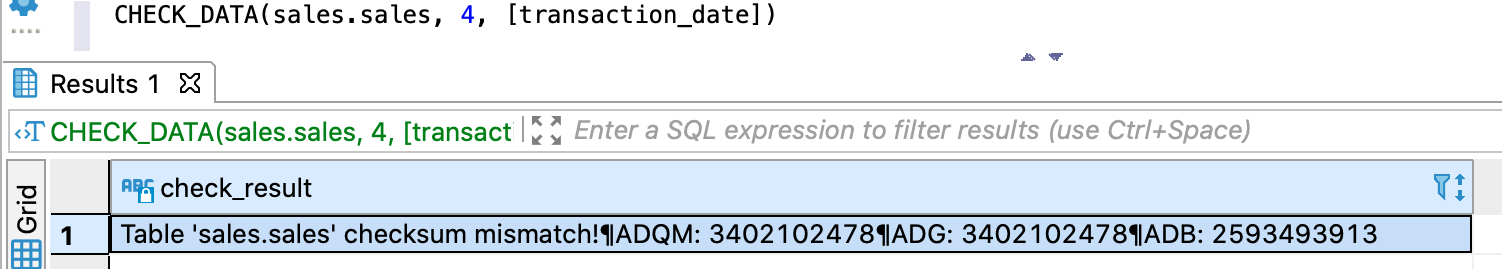
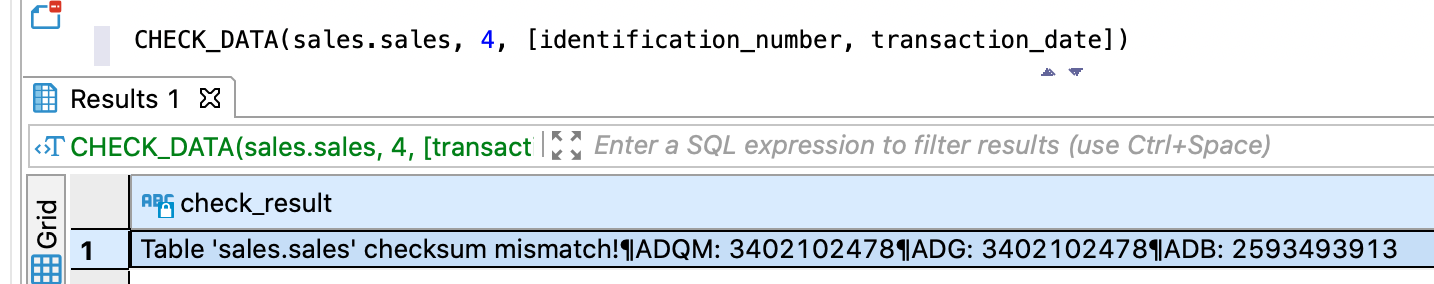
Check* requests: implement vtikhonova feedback and fix some typos

Changed region(s): [[0.0, 0.0, 1.0, 1.0], [0.7057, 0.2379, 0.7671, 0.2677]]

diff --git a/Справочная_информация/Запросы_SQLplus/CHECK_SUM/CHECK_SUM.md b/Справочная_информация/Запросы_SQLplus/CHECK_SUM/CHECK_SUM.md
@@ -18,9 +18,9 @@ has_toc: false
 *   всем столбцам логической таблицы,
 *   всем логическим таблицам [логической базы данных](../../../Обзор_понятий_компонентов_и_связей/Основные_понятия/Логическая_база_данных/Логическая_база_данных.md).
 
-Контрольная сумма расчитывается для каждой целевой СУБД [хранилища](../../../Обзор_понятий_компонентов_и_связей/Основные_понятия/Хранилище_данных/Хранилище_данных.md). 
-Под целевыми СУБД позразумеваются СУБД, в которых размещены данные проверяемой логической таблицы 
-или логической базы данных.  
+Контрольная сумма рассчитывается для каждой целевой СУБД [хранилища](../../../Обзор_понятий_компонентов_и_связей/Основные_понятия/Хранилище_данных/Хранилище_данных.md). 
+Под целевыми СУБД подразумеваются СУБД, в которых размещены данные проверяемой логической таблицы 
+или логической базы данных.
 
 Контрольная сумма рассчитывается пошагово: по логической таблице и затем, если требуется,
 по всей логической базе данных. Полученные значения сравниваются между целевыми СУБД. Если 
@@ -33,31 +33,7 @@ has_toc: false
     и отсутствии расхождений между СУБД хранилища;
 *   исключение при наличии расхождений или неуспешном выполнении запроса.
 
-На рисунках ниже показаны примеры ответов с контрольной суммой по разным срезам данных: 
-по перечисленным столбцам таблицы, всем столбцам таблицы и всей логической базе данных.
-Расхождений в данных между СУБД хранилища нет.
-
-![](check_sum_по_столбцам_таблицы.png)
-{: .figure-center}
-*Ответ CHECK_SUM по указанным столбцам таблицы*
-{: .figure-caption-center}
-
-![](check_sum_по_таблице_целиком.png){:height="40%" width="50%"}
-{: .figure-center}
-*Ответ CHECK_SUM по логической таблице*
-{: .figure-caption-center}
-
-![](check_sum_по_логической_бд.png){:height="40%" width="50%"}
-{: .figure-center}
-*Ответ CHECK_SUM по логической базе данных*
-{: .figure-caption-center}
-
-На рисунке ниже показан примера ответа при наличии расхождений в данных между СУБД хранилища.
-
-![](check_sum_с_расхождениями.png)
-{: .figure-center}
-*Ответ CHECK_SUM при наличии расхождений*
-{: .figure-caption-center}
+Примеры запросов и ответов см. в секции [Примеры](#примеры).
 
 ## Синтаксис
 
@@ -80,21 +56,54 @@ CHECK_SUM(delta_num[, [db_name.]table_name[, square-bracketed_column_list]])
 ## Ограничения
 
 *   Разные наборы данных могут иметь одинаковую контрольную сумму.
-*   Количество записей в операциях записи не должно превышать `4'294'967'298`, иначе  корректность проверки 
-    не гарантируется.
+*   Количество записей в проверяемых операциях записи не должно превышать `4'294'967'298`, иначе 
+    выдается исключение.
 
 ## Примеры
 
-Расчет контрольной суммы по логической базе данных `sales` в нулевой дельте:
+Расчет контрольной суммы по трем столбцам таблицы `sales` в десятой дельте:
 ```sql
-USE sales
-CHECK_SUM(0)
+CHECK_SUM(10,sales.sales,[identification_number, transaction_date, product_code])
 ```
 
-Расчет контрольной суммы по столбцам `region` и `region` таблицы `stores` в нулевой дельте:
+На рисунках ниже показаны примеры ответов на запрос `CHECK_SUM` с перечислением столбцов: 
+на первом — ответ при отсутствии расхождений в данных между СУБД хранилища, на втором — ответ при 
+наличии расхождений.
+
+![](check_sum_по_столбцам_таблицы.png)
+{: .figure-center}
+*Ответ CHECK_SUM по указанным столбцам таблицы при отсутствии расхождений*
+{: .figure-caption-center}
+
+![](check_sum_с_расхождениями.png)
+{: .figure-center}
+*Ответ CHECK_SUM при наличии расхождений*
+{: .figure-caption-center}
+
+Расчет контрольной суммы по всей таблице `sales` в десятой дельте:
 ```sql
-CHECK_SUM(0,sales.stores,[region, region])
+CHECK_SUM(10,sales.sales)
 ```
+
+На рисунке ниже показан пример ответа на запрос `CHECK_SUM` по логической таблице.
+
+![](check_sum_по_таблице_целиком.png){:height="40%" width="40%"}
+{: .figure-center}
+*Ответ CHECK_SUM по логической таблице*
+{: .figure-caption-center}
+
+Расчет контрольной суммы по всей логической базе данных `sales` в десятой дельте:
+```sql
+USE sales
+CHECK_SUM(10)
+```
+
+На рисунке ниже показан пример ответа на запрос `CHECK_SUM` по логической базе данных.
+
+![](check_sum_по_логической_бд.png){:height="40%" width="40%"}
+{: .figure-center}
+*Ответ CHECK_SUM по логической базе данных*
+{: .figure-caption-center}
 
 ## Алгоритмы расчета контрольных сумм
 
@@ -113,7 +122,7 @@ CHECK_SUM(0,sales.stores,[region, region])
 ### Расчет контрольной суммы по логической базе данных
 
 Контрольная сумма по логической базе данных рассчитывается по следующему алгоритму:
-1. Таблицы логической БД выстраиваются в алфавитным порядке. 
+1. Таблицы логической БД выстраиваются в алфавитном порядке. 
 2. По каждой таблице логической БД в указанной дельте рассчитывается контрольная сумма, 
    как описано [выше](#расчет-контрольной-суммы-по-логической-таблице).
 3. Контрольные суммы по таблицам записываются через точку с запятой. 

diff --git a/Справочная_информация/Запросы_SQLplus/CHECK_DATA/CHECK_DATA.md b/Справочная_информация/Запросы_SQLplus/CHECK_DATA/CHECK_DATA.md
@@ -22,7 +22,8 @@ has_toc: false
 *   если столбцы не указаны, по каждой операции записи в каждой из целевых СУБД рассчитывается количество
     записей и полученные значения сравниваются между СУБД.
 
-Подробнее о порядке проверки данных см. в разделе [Порядок проверки данных](#порядок-проверки-данных).
+Подробнее о порядке проверки данных см. в разделе [Порядок проверки данных](#порядок-проверки-данных). 
+Примеры запросов и ответов см. в секции [Примеры](#примеры).
     
 **Примечание:** в проверке участвуют целевые СУБД хранилища — те СУБД, в которых размещены данные 
 проверяемой логической таблицы. Если такая СУБД одна, проверка все равно проходит и считается успешной 
@@ -34,24 +35,6 @@ has_toc: false
 
 Если запрос выполнен успешно, ответ содержит сообщение об успешной проверке или найденных расхождениях, 
 а также список проверенных СУБД хранилища.
-
-На рисунке ниже показан пример ответа при наличии расхождения: контрольная сумма в ADB отличается от 
-контрольной суммы в ADG и ADQM. Различия вызваны тем, что запись была удалена напрямую из ADB 
-(за рамками системы), а записи в ADG и ADQM остались без изменений.
-
-![](check_data_с_расхождениями.png)
-{: .figure-center}
-*Ответ CHECK_DATA с найденными расхождениями*
-{: .figure-caption-center}
-
-На рисунке ниже показан пример ответа при успешной проверке логической таблицы, данные которой 
-размещены только в ADB.
-
-<a id="img_check_for_one_db"></a>
-![](check_data_без_расхождений.png){:height="50%" width="50%"}
-{: .figure-center}
-*Ответ CHECK_DATA с проверкой только в ADB*
-{: .figure-caption-center}
 
 ## Синтаксис
 
@@ -75,22 +58,37 @@ CHECK_DATA([db_name.]table_name, delta_number[, square-bracketed_column_list])
 ## Ограничения
 
 *   Разные наборы данных могут иметь одинаковую контрольную сумму, поэтому возможен ложноположительный результат проверки.
-*   Количество записей в операциях записи не должно превышать `4'294'967'298`, иначе  корректность проверки
-    не гарантируется.
+*   Количество записей в проверяемых операциях записи не должно превышать `4'294'967'298`, иначе 
+    выдается исключение.
 
 ## Примеры
 
-Проверка целостности данных логической таблицы `sales` в диапазоне \[дельта 4, последняя закрытая дельта\]:
+Проверка целостности данных логической таблицы `stores75` в диапазоне \[дельта 0, последняя закрытая дельта\]:
 ```sql
-CHECK_DATA(sales.sales, 4)
+CHECK_DATA(sales.stores75, 0)
 ```
 
-Проверка целостности данных столбцов `identification_number` и `transaction_date` логической таблицы 
-`sales`:
+На рисунке ниже показан пример ответа `CHECK_DATA` при успешной проверке логической таблицы `stores75`, 
+данные которой размещены только в ADB.
+
+<a id="img_check_for_one_db"></a>
+![](check_data_без_расхождений.png){:height="50%" width="50%"}
+{: .figure-center}
+*Ответ CHECK_DATA с проверкой только в ADB*
+{: .figure-caption-center}
+
+Проверка целостности данных столбцов `identification_number` и `transaction_date` таблицы `sales`:
 ```sql
 CHECK_DATA(sales.sales, 4, [identification_number, transaction_date])
-CHECK_DATA(sales.sales, 4)
 ```
+
+На рисунке ниже показан пример ответа на запрос `CHECK_DATA` по столбцам таблицы при наличии расхождений: 
+контрольная сумма в ADB отличается от контрольной суммы в ADG и ADQM.
+
+![](check_data_с_расхождениями.png)
+{: .figure-center}
+*Ответ CHECK_DATA с найденными расхождениями*
+{: .figure-caption-center}
 
 ## Порядок проверки данных
 

diff --git a/Справочная_информация/Запросы_SQLplus/CHECK_TABLE/CHECK_TABLE.md b/Справочная_информация/Запросы_SQLplus/CHECK_TABLE/CHECK_TABLE.md
@@ -32,28 +32,7 @@ has_toc: false
 *   исключение при неуспешном выполнении запроса.
 
 Возвращаемая информация включает сообщение об успешной проверке или найденных расхождениях, а также список 
-проверенных СУБД хранилища.  
-На рисунках ниже показаны примеры ответа в случае успешной проверки. В первом примере проверка выполнена 
-для логической таблицы, данные которой размещены во всех СУБД хранилища, во втором — для таблицы, данные 
-которой размещены только в ADB.
-
-![](check_table_без_расхождений_3_бд.png){:height="50%" width="50%"}
-{: .figure-center}
-*Ответ CHECK_TABLE при успешной проверке*
-{: .figure-caption-center}
-
-![](check_table_без_расхождений_1_бд.png){:height="50%" width="50%"}
-{: .figure-center}
-*Ответ CHECK_TABLE с проверкой только в ADB*
-{: .figure-caption-center}
-
-На рисунке ниже показан пример ответа при наличии расхождений. Проверка прошла успешно для ADG и ADQM, 
-а в ADB найдено несоответствие — столбец `description` отсутсвует в физической таблице с архивными записями.
-
-![](check_table_с_расхождениями.png)
-{: .figure-center}
-*Ответ CHECK_TABLE с найденными расхождениями*
-{: .figure-caption-center}
+проверенных СУБД хранилища. Примеры запросов и ответов см. в секции [Примеры](#примеры).
 
 ## Синтаксис
 
@@ -67,8 +46,30 @@ CHECK_TABLE([db_name.]table_name)
     Указывается опционально, если выбрана логическая БД, [используемая по умолчанию](../../../Работа_с_системой/Другие_функции/Определение_логической_БД_по_умолчанию/Определение_логической_БД_по_умолчанию.md);
 *   `table_name` — имя проверяемой логической таблицы.
 
-## Пример
+## Примеры
 
+Проверка логической таблицы `sales.sales`:
 ```sql
-CHECK_TABLE(sales.stores)
+CHECK_TABLE(sales.sales)
 ```
+
+На рисунках ниже показаны примеры ответов в случае успешной проверки: на первом рисунке — по таблице,
+данные которой размещены во всех СУБД хранилища, на втором — по таблице, данные которой размещены только в ADB.
+
+![](check_table_без_расхождений_3_бд.png){:height="50%" width="50%"}
+{: .figure-center}
+*Ответ CHECK_TABLE при успешной проверке*
+{: .figure-caption-center}
+
+![](check_table_без_расхождений_1_бд.png){:height="50%" width="50%"}
+{: .figure-center}
+*Ответ CHECK_TABLE с проверкой только в ADB*
+{: .figure-caption-center}
+
+На рисунке ниже показан пример ответа при наличии расхождений. Проверка прошла успешно для ADG и ADQM,
+а в ADB найдено несоответствие — столбец `description` отсутствует в одной из физических таблиц.
+
+![](check_table_с_расхождениями.png)
+{: .figure-center}
+*Ответ CHECK_TABLE с найденными расхождениями*
+{: .figure-caption-center}

diff --git a/Справочная_информация/Запросы_SQLplus/CHECK_DATABASE/CHECK_DATABASE.md b/Справочная_информация/Запросы_SQLplus/CHECK_DATABASE/CHECK_DATABASE.md
@@ -33,21 +33,7 @@ has_toc: false
 *   исключение при неуспешном выполнении запроса.
 
 Возвращаемая информация включает сообщение об успешной проверке или найденных расхождениях, а также 
-список проверенных СУБД хранилища.
-
-На рисунках ниже показаны примеры ответов: на первом — ответ при отсутствии расхождений, на втором — 
-при наличии расхождений. Расхождения вызваны тем, что в целях иллюстрации между первым и вторым запросом 
-столбец `description` был переименован в ADB.
-
-![](check_database_без_расхождений.png){:height="50%" width="50%"}
-{: .figure-center}
-*Ответ CHECK_DATABASE при успешной проверке*
-{: .figure-caption-center}
-
-![](check_database_с_расхождениями.png)
-{: .figure-center}
-*Ответ CHECK_DATABASE с найденными расхождениями*
-{: .figure-caption-center}
+список проверенных СУБД хранилища. Примеры запросов и ответов см. в секции [Примеры](#примеры).
 
 ## Синтаксис
 
@@ -65,8 +51,23 @@ CHECK_DATABASE(db_name)
 
 *   `db_name` — имя логической базы данных, для таблиц которой выполняется проверка.
 
-## Пример
+## Примеры
 
+Проверка логической базы данных `sales`:
 ```sql
 CHECK_DATABASE(sales)
 ```
+
+На рисунках ниже показаны примеры ответов: на первом — ответ при отсутствии расхождений, на втором —
+при наличии расхождений. Расхождения вызваны тем, что в целях иллюстрации между первым и вторым запросом
+столбец `description` одной из таблиц был переименован ADB.
+
+![](check_database_без_расхождений.png){:height="50%" width="50%"}
+{: .figure-center}
+*Ответ CHECK_DATABASE при успешной проверке*
+{: .figure-caption-center}
+
+![](check_database_с_расхождениями.png)
+{: .figure-center}
+*Ответ CHECK_DATABASE с найденными расхождениями*
+{: .figure-caption-center}
